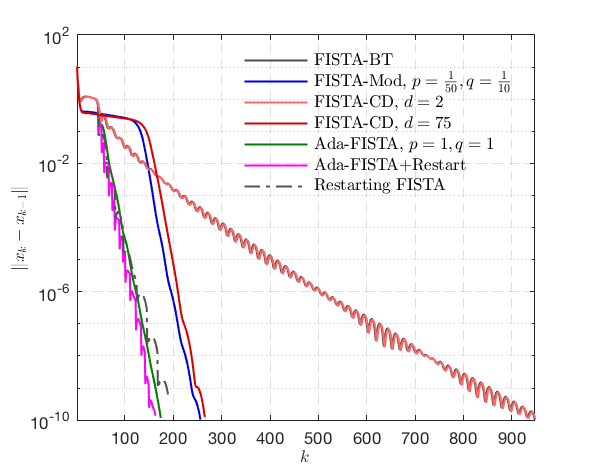
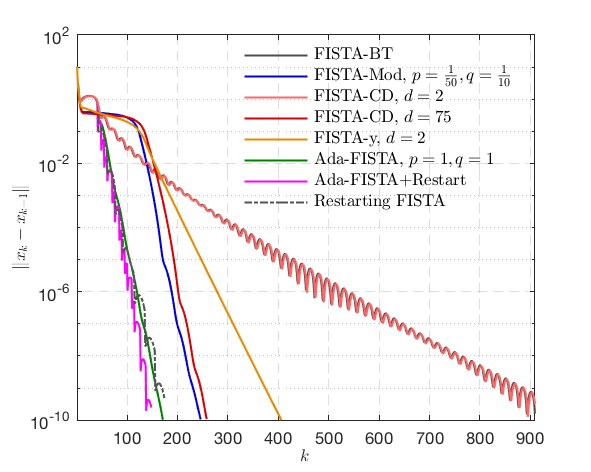
fsita-y

diff --git a/codes/inverse-problem/cmp_FISTA.m b/codes/inverse-problem/cmp_FISTA.m
@@ -4,7 +4,7 @@ clc
 %% problem set up
 J = 'lasso';
 J = 'glasso';
-% J = 'infty';
+J = 'infty';
 
 [para, gradF,proxJ, objPhi] = problem_setup(J);
 
@@ -65,7 +65,7 @@ r = 4;
 p = 1.0/1.05;
 q = p^2;
 
-[x_ar, its_ar, ek_ar, phik_ar, r_ar, Rk, Vk,Wk] = func_AdaFISTA_sR(para, gradF, proxJ, objPhi, J, p,q,r);
+[x_ar, its_ar, ek_ar, phik_ar, r_ar, Rk, Vk,Wk] = func_RAdaFISTA(para, gradF, proxJ, objPhi, J, p,q,r);
 
 fprintf('\n');
 
@@ -82,6 +82,13 @@ d = 2;
 d = 75;
 [x_c2, its_c2, ek_c2, phik_c2] = func_FISTA_CD(para, gradF, proxJ, objPhi, J, d);
 fprintf('\n\n');
+%% FISTA-y
+fprintf(sprintf('performing FISTA-y...\n'));
+
+d = 2;
+[x_y, its_y, ek_y, phik_y] = func_FISTA_y(para, gradF, proxJ, objPhi, J, d);
+
+fprintf('\n');
 %% plot ||x_{k} - x_{k-1}||
 linewidth = 1;
 
@@ -119,13 +126,17 @@ p3 = semilogy(ek_c1, 'Color',red1, 'LineWidth',linewidth);
 red2 = [0.85,0.0,0.0];
 p4 = semilogy(ek_c2, 'Color',red2, 'LineWidth',linewidth);
 
+%%%%%
+orange1 = [0.9020, 0.5412, 0];
+p5 = semilogy(ek_y, 'Color',orange1, 'LineWidth',linewidth);
+
 grid on;
 ax = gca;
 ax.GridLineStyle = '--';
 
 % v = axis;
 axis([1 length(ek)/1 1e-10 1e2]);
-if strcmp(J, 'infty'); axis([1 length(ek)/6 1e-10 1e2]); end
+if strcmp(J, 'infty'); axis([1 length(ek)/2 1e-10 1e2]); end
 ytick = [1e-10, 1e-6, 1e-2, 1e2];
 set(gca, 'yTick', ytick);
 
@@ -136,9 +147,10 @@ xlb = xlabel({'\vspace{-1.0mm}';'$k$'}, 'FontSize', labelFontSize,...
     'FontAngle', 'normal', 'Interpreter', 'latex');
 set(xlb, 'Units', 'Normalized', 'Position', [1/2, -0.055, 0]);
 
-lg = legend([p1, p2, p3,p4, pas1,pasr, pr], 'FISTA-BT',...
+lg = legend([p1, p2, p3,p4, p5, pas1,pasr, pr], 'FISTA-BT',...
     'FISTA-Mod, $p = \frac{1}{50}, q = \frac{1}{10}$',...
     'FISTA-CD, $d = 2$', 'FISTA-CD, $d = 75$',...
+    'FISTA-y, $d = 2$',...
     'Ada-FISTA, $p=1, q=1$', 'Ada-FISTA+Restart',...
     'Restarting FISTA');
 set(lg,'FontSize', legendFontSize);
@@ -195,13 +207,17 @@ p3 = semilogy(phik_c1-phisol, 'Color',red1, 'LineWidth',linewidth);
 red2 = [0.85,0.0,0.0];
 p4 = semilogy(phik_c2-phisol, 'Color',red2, 'LineWidth',linewidth);
 
+%%%%%
+orange1 = [0.9020, 0.5412, 0];
+p5 = semilogy(phik_y-phisol, 'Color',orange1, 'LineWidth',linewidth);
+
 grid on;
 ax = gca;
 ax.GridLineStyle = '--';
 
 % v = axis;
 axis([1 length(phik)/1 1e-14 1e4]);
-if strcmp(J, 'infty'); axis([1 length(phik)/6 1e-14 1e2]); end
+if strcmp(J, 'infty'); axis([1 length(phik)/1 1e-14 1e2]); end
 ytick = [1e-12, 1e-8, 1e-4, 1e0, 1e4];
 set(gca, 'yTick', ytick);
 
@@ -212,9 +228,10 @@ xlb = xlabel({'\vspace{-1.0mm}';'$k$'}, 'FontSize', labelFontSize,...
     'FontAngle', 'normal', 'Interpreter', 'latex');
 set(xlb, 'Units', 'Normalized', 'Position', [1/2, -0.055, 0]);
 
-lg = legend([p1, p2, p3,p4, pas1,pasr, pr], 'FISTA-BT',...
+lg = legend([p1, p2, p3,p4, p5, pas1,pasr, pr], 'FISTA-BT',...
     'FISTA-Mod, $p = \frac{1}{50}, q = \frac{1}{10}$',...
     'FISTA-CD, $d = 2$', 'FISTA-CD, $d = 75$',...
+    'FISTA-y, $d = 2$',...
     'Ada-FISTA, $p=1, q=1$', 'Ada-FISTA+Restart',...
     'Restarting FISTA');
 set(lg,'FontSize', legendFontSize);

diff --git a/codes/inverse-problem/func_FISTA_y.m b/codes/inverse-problem/func_FISTA_y.m
@@ -1,0 +1,69 @@
+function [x, its, ek, phik] = func_FISTA_y(para, GradF, ProxJ, ObjPhi, J, d)
+% FISTA by A. Chambolle & C. Dossal
+itsprint(sprintf('        step %08d: norm(ek) = %.3e', 1,1), 1);
+w = 10;
+if strcmp(J, 'infty'); w = 1e3; end
+
+% set up
+beta = para.beta;
+mu = para.mu;
+n = para.n;
+% f = para.f;
+
+gamma = 1 *beta;
+tau = mu*gamma;
+
+if strcmp(J, 'mc')
+    FBS = @(y, gamma, tau) ProxJ(y-gamma*GradF(y), tau, n);
+else
+    FBS = @(y, gamma, tau) ProxJ(y-gamma*GradF(y), tau);
+end
+%% FBS iteration
+x0 = zeros(prod(n), 1);
+
+x = x0;
+y = x0;
+
+tol = 1e-10;
+maxits = 1e5;
+
+ek = zeros(1, maxits);
+phik = zeros(1, maxits);
+
+t = 1;
+
+its = 1;
+while(its<maxits)
+    
+    x_old = x;
+    y_old = y;
+    
+    x = FBS(y, gamma, tau);
+    
+    t_old = t;
+    t = (its+d-1) /d;
+    a = (t_old-1) /t;
+    y = x + 1*a*(x-y_old);
+    
+    % d = min(d*1.002^its, 75);
+    
+    %%%%%%% stop?
+    normE = norm(x_old-x, 'fro');
+    
+    if mod(its,w)==0
+        itsprint(sprintf('        step %08d: norm(ek) = %.3e', its,normE), its);
+    end
+    
+    ek(its) = normE;
+    phik(its) = ObjPhi(x);
+    if (normE<tol)||(normE>1e10); break; end
+    
+    its = its + 1;
+    
+end
+fprintf('\n');
+
+ek = ek(1:its-1);
+phik = phik(1:its-1);
+
+% EoF

diff --git a/codes/inverse-problem/func_RAdaFISTA.m b/codes/inverse-problem/func_RAdaFISTA.m
@@ -1,4 +1,4 @@
-function [x, its, ek, phik, r,Rk, Vk,Wk] = func_AdaFISTA_sR(para, GradF,ProxJ, ObjPhi, J, p,q,r)
+function [x, its, ek, phik, r,Rk, Vk,Wk] = func_RAdaFISTA(para, GradF,ProxJ, ObjPhi, J, p,q,r)
 % The Adaptive FISTA
 % For this scheme, the update of r_k is combined with the restarting FISTA stragety
 
